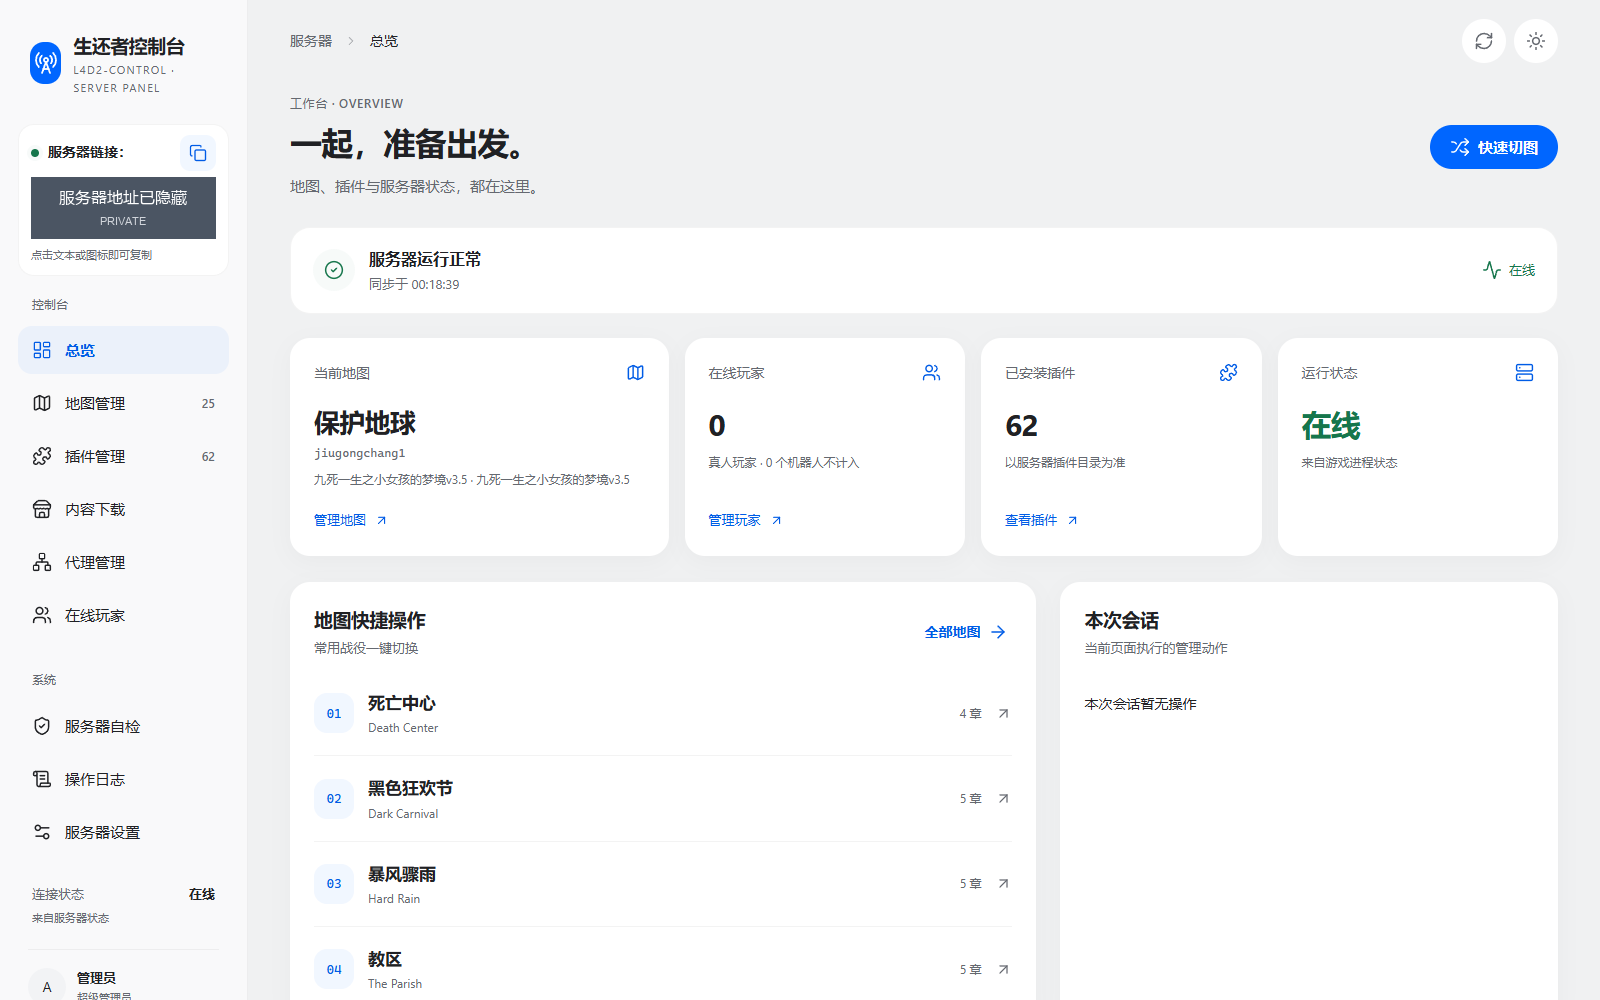
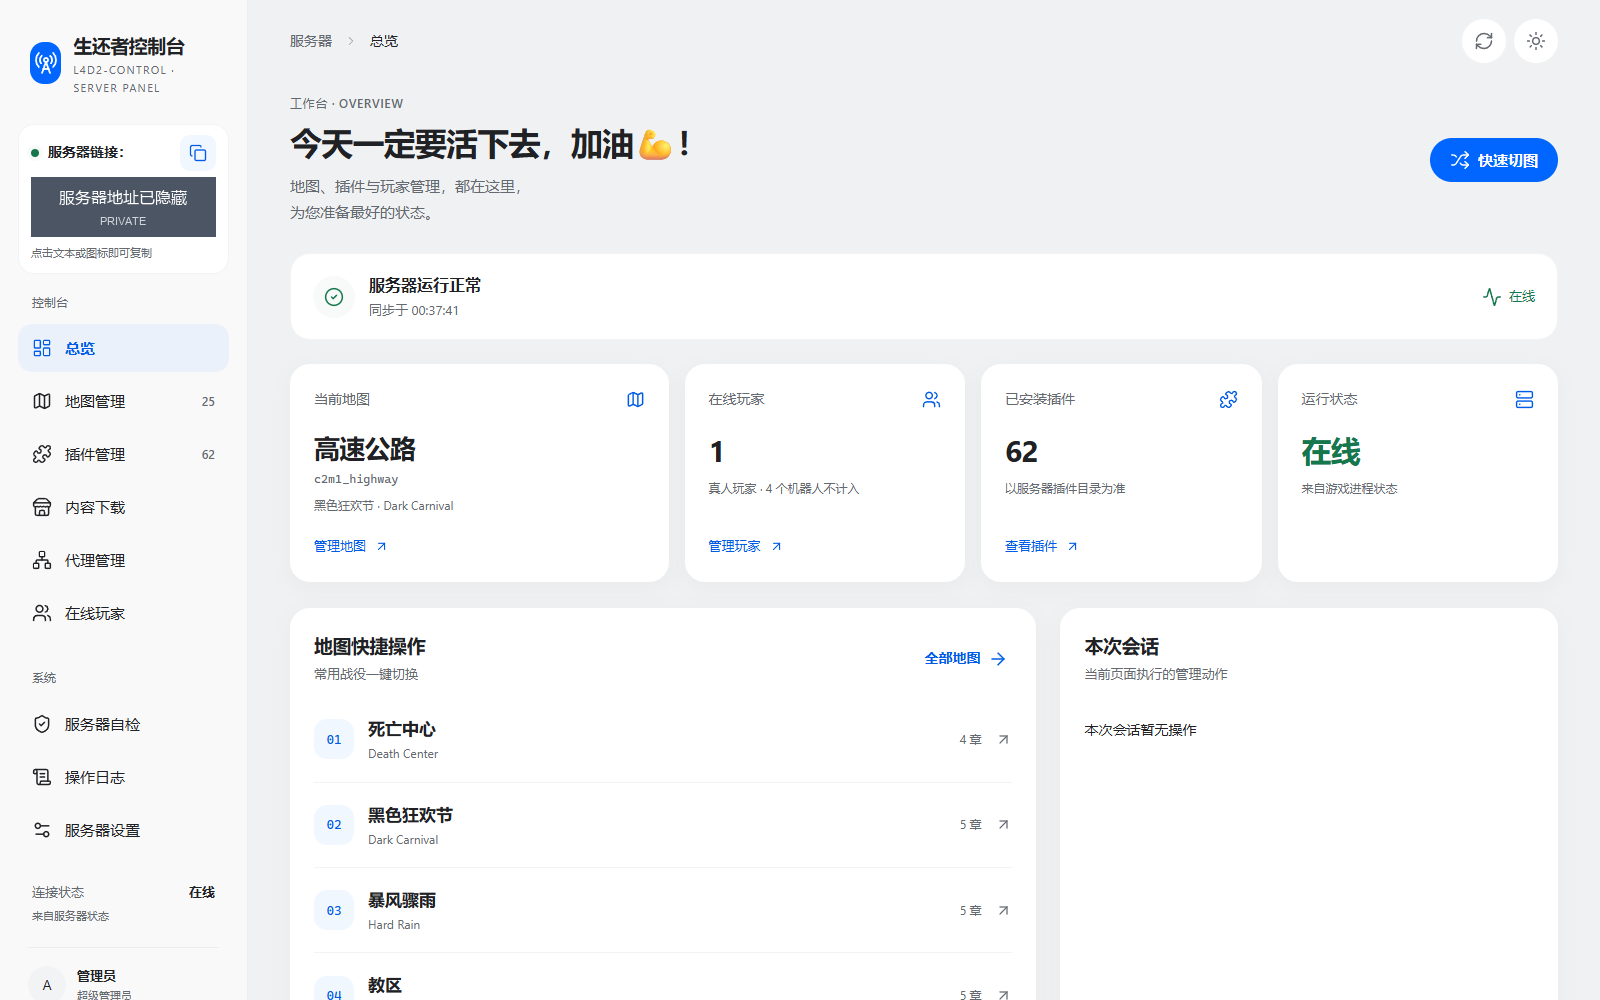
Restore L4D2-Control name and update homepage copy and SVIP notes

diff --git a/index.html b/index.html
@@ -3,7 +3,7 @@
 <head>
   <meta charset="utf-8">
   <meta name="viewport" content="width=device-width, initial-scale=1">
-  <title>L4D2-Control · 求生之路 2</title>
+  <title>L4D2-Control · 今天一定要活下去</title>
   <link rel="icon" href="data:,">
   <script src="https://unpkg.com/lucide@0.468.0/dist/umd/lucide.min.js"></script>
   <link rel="stylesheet" href="styles.css">
@@ -46,7 +46,7 @@
       </header>
 
       <section class="content" id="overviewView">
-        <div class="page-heading"><div><p class="eyebrow">工作台 · OVERVIEW</p><h1>一起，准备出发。</h1><p>地图、插件与服务器状态，都在这里。</p></div><button class="primary-button" id="quickMapBtn"><i data-lucide="shuffle"></i>快速切图</button></div>
+        <div class="page-heading"><div><p class="eyebrow">工作台 · OVERVIEW</p><h1>今天一定要活下去，<span style="white-space:nowrap">加油💪！</span></h1><p>地图、插件与玩家管理，都在这里，<br>为您准备最好的状态。</p></div><button class="primary-button" id="quickMapBtn"><i data-lucide="shuffle"></i>快速切图</button></div>
         <div class="status-banner" id="serverStatus"><div class="status-icon"><i data-lucide="check-circle-2"></i></div><div><strong>正在读取服务器状态</strong><span>正在同步游戏服务状态</span></div><span class="latency"><i data-lucide="activity"></i> 检查中</span></div>
         <div class="stat-grid"><article class="stat-card"><div class="stat-top"><span>当前地图</span><i data-lucide="map"></i></div><strong class="current-map-title" id="currentMap">读取中…</strong><small class="current-map-english" id="currentMapEnglish">UNKNOWN</small><small id="currentMapSubtitle">服务器当前关卡</small><button class="stat-link" data-view="maps">管理地图 <i data-lucide="arrow-up-right"></i></button></article><article class="stat-card"><div class="stat-top"><span>在线玩家</span><i data-lucide="users"></i></div><strong id="overviewPlayerCount">—</strong><small id="overviewPlayerHint">正在读取实时玩家</small><button class="stat-link" data-view="players">管理玩家 <i data-lucide="arrow-up-right"></i></button></article><article class="stat-card"><div class="stat-top"><span>已安装插件</span><i data-lucide="puzzle"></i></div><strong id="overviewPluginCount">…</strong><small>以服务器插件目录为准</small><button class="stat-link" data-view="plugins">查看插件 <i data-lucide="arrow-up-right"></i></button></article><article class="stat-card"><div class="stat-top"><span>运行状态</span><i data-lucide="server"></i></div><strong id="overviewState">检查中</strong><small>来自游戏进程状态</small><div class="health-line"><span></span><span></span><span></span><span></span><span></span></div></article></div>
         <div class="section-grid"><section class="panel recent-panel"><div class="panel-heading"><div><h2>地图快捷操作</h2><p>常用战役一键切换</p></div><button class="text-button" data-view="maps">全部地图 <i data-lucide="arrow-right"></i></button></div><div class="map-quick-list" id="quickMaps"></div></section><section class="panel activity-panel"><div class="panel-heading"><div><h2>本次会话</h2><p>当前页面执行的管理动作</p></div></div><div class="activity-list" id="activityList"></div></section></div>

diff --git a/docs/Server Deployment.md b/docs/Server Deployment.md
@@ -1,10 +1,10 @@
-# 今天一定要活下去 · 服务器部署教程 / Server Deployment
+# L4D2-Control · 今天一定要活下去 · 服务器部署教程 / Server Deployment
 
 > [!IMPORTANT]
 > **如果本项目对你有帮助别忘了点一下star⭐**
 > 点击仓库右上角的 **Star**，支持项目继续更新。
 
-**求生之路 2 服务器管理面板** · 原名 L4D2-Control。
+**英文名：L4D2-Control** · **中文名：今天一定要活下去**。
 
 Replace placeholders such as `<GAME_USER>`, `<GAME_ROOT>`, `<SCREEN_SESSION>`, `<PANEL_DOMAIN>` and `<PUBLIC_GAME_HOST>` with your own values. Never commit passwords, subscription links, private keys or real credentials.
 
@@ -16,6 +16,10 @@ Replace placeholders such as `<GAME_USER>`, `<GAME_ROOT>`, `<SCREEN_SESSION>`, `
 >
 > The validated combination for map cloud backup and direct-download export is **OpenList with its Baidu Netdisk storage driver**. The Chrome/Edge helper is specific to Baidu direct links; other drivers have not received equivalent validation. Map/plugin management and server download export also work without cloud storage.
 
+> **百度网盘 SVIP 测试说明：** 本项目已验证的百度网盘账号已开通 **SVIP**。尚未验证未开通 SVIP 的账号，是否会影响下载服务暂不确定。
+>
+> The Baidu Netdisk account used for validation has **SVIP** enabled. Download behavior for accounts without SVIP has not been tested; whether this affects the download service remains unknown.
+
 ## 简体中文部署教程
 
 ### 0. 让 AI 协助部署（可选）
@@ -24,8 +28,8 @@ Replace placeholders such as `<GAME_USER>`, `<GAME_ROOT>`, `<SCREEN_SESSION>`, `
 
 ~~~text
 请根据 L4D2-Control 项目和服务器部署教程，帮我在这台我有权限管理的 Linux 服务器上完成部署。
-项目地址：https://github.com/Z1og/jin-tian-yi-ding-yao-huo-xia-qu
-教程：https://github.com/Z1og/jin-tian-yi-ding-yao-huo-xia-qu/blob/main/docs/Server%20Deployment.md
+项目地址：https://github.com/Z1og/L4D2-Control
+教程：https://github.com/Z1og/L4D2-Control/blob/main/docs/Server%20Deployment.md
 请先检查 Node.js、screen、L4D2 游戏目录和权限，再逐步执行；每一步报告结果，遇到错误先停下来说明原因。
 请使用安全的随机面板密码、HTTPS 和最小权限，不要把密码、私钥、令牌、订阅链接或服务器凭据写入公开聊天、代码或 Git 提交。
 ~~~
@@ -59,7 +63,7 @@ GAME_USER=replace-with-game-user  # 换成拥有 screen 会话的账号
 id "$GAME_USER"
 sudo mkdir -p /opt/L4D2-Control
 sudo chown "$GAME_USER:$GAME_USER" /opt/L4D2-Control
-sudo -H -u "$GAME_USER" git clone https://github.com/Z1og/jin-tian-yi-ding-yao-huo-xia-qu.git /opt/L4D2-Control
+sudo -H -u "$GAME_USER" git clone https://github.com/Z1og/L4D2-Control.git /opt/L4D2-Control
 sudo -H -u "$GAME_USER" npm --prefix /opt/L4D2-Control ci
 ~~~
 
@@ -221,8 +225,8 @@ If you are not comfortable with Linux, give the public project URL to a trusted 
 
 ~~~text
 Please deploy L4D2-Control on this Linux server, which I am authorized to manage, using the project and deployment guide below.
-Project: https://github.com/Z1og/jin-tian-yi-ding-yao-huo-xia-qu
-Guide: https://github.com/Z1og/jin-tian-yi-ding-yao-huo-xia-qu/blob/main/docs/Server%20Deployment.md
+Project: https://github.com/Z1og/L4D2-Control
+Guide: https://github.com/Z1og/L4D2-Control/blob/main/docs/Server%20Deployment.md
 Check Node.js, screen, the L4D2 directory and permissions first. Execute one step at a time and report the result; stop and explain any error before continuing.
 Use a strong random panel password, HTTPS and least privilege. Never put passwords, private keys, tokens, subscription URLs or server credentials in public chat, source code or Git commits.
 ~~~
@@ -254,7 +258,7 @@ GAME_USER=replace-with-game-user  # screen session owner
 id "$GAME_USER"
 sudo mkdir -p /opt/L4D2-Control
 sudo chown "$GAME_USER:$GAME_USER" /opt/L4D2-Control
-sudo -H -u "$GAME_USER" git clone https://github.com/Z1og/jin-tian-yi-ding-yao-huo-xia-qu.git /opt/L4D2-Control
+sudo -H -u "$GAME_USER" git clone https://github.com/Z1og/L4D2-Control.git /opt/L4D2-Control
 sudo -H -u "$GAME_USER" npm --prefix /opt/L4D2-Control ci
 ~~~
 

diff --git a/README English.md b/README English.md
@@ -1,10 +1,10 @@
-# 今天一定要活下去
+# L4D2-Control · 今天一定要活下去
 
 > [!IMPORTANT]
 > **如果本项目对你有帮助别忘了点一下star⭐**
 > If this project helps you, please click **Star ⭐** in the upper-right corner of this repository.
 
-**Survive Today** · A Left 4 Dead 2 server control panel, formerly L4D2-Control.
+**English name: L4D2-Control** · **Chinese name: 今天一定要活下去**.
 
 [Home](README.md) · [简体中文](README%20Chinese.md) · [Server deployment guide](docs/Server%20Deployment.md#english-server-deployment-guide)
 
@@ -16,17 +16,19 @@ Map cloud backup and **Direct download export (recommended)** are currently adap
 
 OpenList and Baidu Netdisk are optional. Local map and plugin management and **Server download export** remain available without a cloud drive. Configure authorization and credentials in your own OpenList instance and private server environment. No cloud accounts, tokens or subscriptions are included in this repository.
 
+> **SVIP validation note：** The Baidu Netdisk account used for validation has **SVIP** enabled. Download behavior for accounts without SVIP has not been tested; whether this affects the download service remains unknown.
+
 ## Project preview
 
 Server details in these previews are redacted; the project does not include a real server address, account or password.
 
 | Overview | Map management |
 | --- | --- |
-| ![Overview](https://raw.githubusercontent.com/Z1og/jin-tian-yi-ding-yao-huo-xia-qu/c5e295112d77ab696e363cfd41b64343a9736644/docs/Project%20Preview/Overview.png) | ![Map management](https://raw.githubusercontent.com/Z1og/jin-tian-yi-ding-yao-huo-xia-qu/c5e295112d77ab696e363cfd41b64343a9736644/docs/Project%20Preview/Maps.png) |
+| ![Overview](https://raw.githubusercontent.com/Z1og/L4D2-Control/c5e295112d77ab696e363cfd41b64343a9736644/docs/Project%20Preview/Overview.png) | ![Map management](https://raw.githubusercontent.com/Z1og/L4D2-Control/c5e295112d77ab696e363cfd41b64343a9736644/docs/Project%20Preview/Maps.png) |
 
 | Plugin management | Content downloads |
 | --- | --- |
-| ![Plugin management](https://raw.githubusercontent.com/Z1og/jin-tian-yi-ding-yao-huo-xia-qu/c5e295112d77ab696e363cfd41b64343a9736644/docs/Project%20Preview/Plugins.png) | ![Content downloads](https://raw.githubusercontent.com/Z1og/jin-tian-yi-ding-yao-huo-xia-qu/c5e295112d77ab696e363cfd41b64343a9736644/docs/Project%20Preview/Downloads.png) |
+| ![Plugin management](https://raw.githubusercontent.com/Z1og/L4D2-Control/c5e295112d77ab696e363cfd41b64343a9736644/docs/Project%20Preview/Plugins.png) | ![Content downloads](https://raw.githubusercontent.com/Z1og/L4D2-Control/c5e295112d77ab696e363cfd41b64343a9736644/docs/Project%20Preview/Downloads.png) |
 
 ## Features
 
@@ -47,7 +49,7 @@ A Steam subscription alone does not install files on a dedicated server. Install
 Use Linux with Node.js 22 LTS or a newer supported LTS, GNU screen and an already running L4D2 server. Run the panel as the same Unix user that owns the game's screen session. Plugin operations require MetaMod/SourceMod.
 
 ```sh
-git clone https://github.com/Z1og/jin-tian-yi-ding-yao-huo-xia-qu.git L4D2-Control
+git clone https://github.com/Z1og/L4D2-Control.git L4D2-Control
 cd L4D2-Control
 npm ci
 cp .env.example .env

diff --git a/README.md b/README.md
@@ -1,16 +1,20 @@
-# 今天一定要活下去
+# L4D2-Control · 今天一定要活下去
 
 > [!IMPORTANT]
 > **如果本项目对你有帮助别忘了点一下star⭐**
 > 点击仓库右上角的 **Star**，支持项目继续更新。
 
-**求生之路 2 服务器管理面板** · 原名 L4D2-Control。
+**英文名：L4D2-Control** · **中文名：今天一定要活下去**。
 
 一个为《求生之路 2》专用服务器打造的网页管理面板，提供地图、插件、创意工坊/GameMaps 内容下载和内容专用代理管理。
 
 > **网盘适配说明：** 本项目的云端地图备份与直连下载导出功能当前适配 **OpenList 挂载的百度网盘**。随项目提供的 Chrome/Edge 下载助手也专用于百度网盘直链；其他网盘驱动尚未完成同等验证。基础地图与插件管理不依赖网盘。
 >
 > **Cloud-drive compatibility:** Map cloud backup and direct-download export are currently adapted and tested with **Baidu Netdisk mounted through OpenList**. The bundled Chrome/Edge download helper is specific to Baidu direct links. Other storage drivers have not received equivalent validation. Basic map and plugin management does not require a cloud drive.
+
+> **百度网盘 SVIP 测试说明：** 本项目已验证的百度网盘账号已开通 **SVIP**。尚未验证未开通 SVIP 的账号，是否会影响下载服务暂不确定。
+>
+> The Baidu Netdisk account used for validation has **SVIP** enabled. Download behavior for accounts without SVIP has not been tested; whether this affects the download service remains unknown.
 
 **English** · [English README](README%20English.md)<br>
 **简体中文** · [中文 README](README%20Chinese.md)<br>
@@ -30,11 +34,11 @@
 
 | 总览 | 地图管理 |
 | --- | --- |
-| ![总览](https://raw.githubusercontent.com/Z1og/jin-tian-yi-ding-yao-huo-xia-qu/c5e295112d77ab696e363cfd41b64343a9736644/docs/Project%20Preview/Overview.png) | ![地图管理](https://raw.githubusercontent.com/Z1og/jin-tian-yi-ding-yao-huo-xia-qu/c5e295112d77ab696e363cfd41b64343a9736644/docs/Project%20Preview/Maps.png) |
+| ![总览](https://raw.githubusercontent.com/Z1og/L4D2-Control/c5e295112d77ab696e363cfd41b64343a9736644/docs/Project%20Preview/Overview.png) | ![地图管理](https://raw.githubusercontent.com/Z1og/L4D2-Control/c5e295112d77ab696e363cfd41b64343a9736644/docs/Project%20Preview/Maps.png) |
 
 | 插件管理 | 内容下载 |
 | --- | --- |
-| ![插件管理](https://raw.githubusercontent.com/Z1og/jin-tian-yi-ding-yao-huo-xia-qu/c5e295112d77ab696e363cfd41b64343a9736644/docs/Project%20Preview/Plugins.png) | ![内容下载](https://raw.githubusercontent.com/Z1og/jin-tian-yi-ding-yao-huo-xia-qu/c5e295112d77ab696e363cfd41b64343a9736644/docs/Project%20Preview/Downloads.png) |
+| ![插件管理](https://raw.githubusercontent.com/Z1og/L4D2-Control/c5e295112d77ab696e363cfd41b64343a9736644/docs/Project%20Preview/Plugins.png) | ![内容下载](https://raw.githubusercontent.com/Z1og/L4D2-Control/c5e295112d77ab696e363cfd41b64343a9736644/docs/Project%20Preview/Downloads.png) |
 
 ---
 
